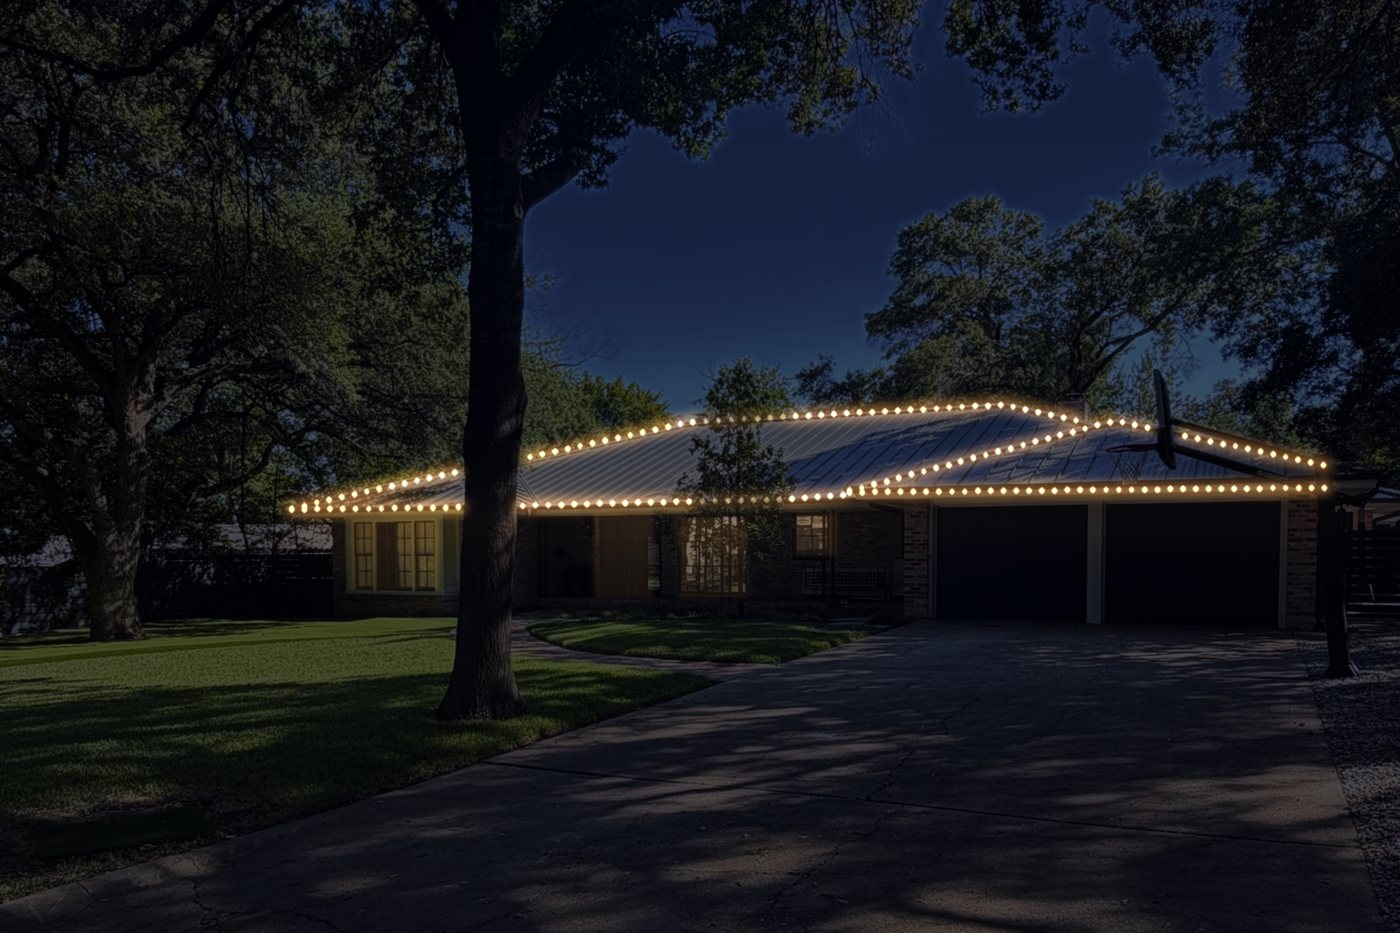
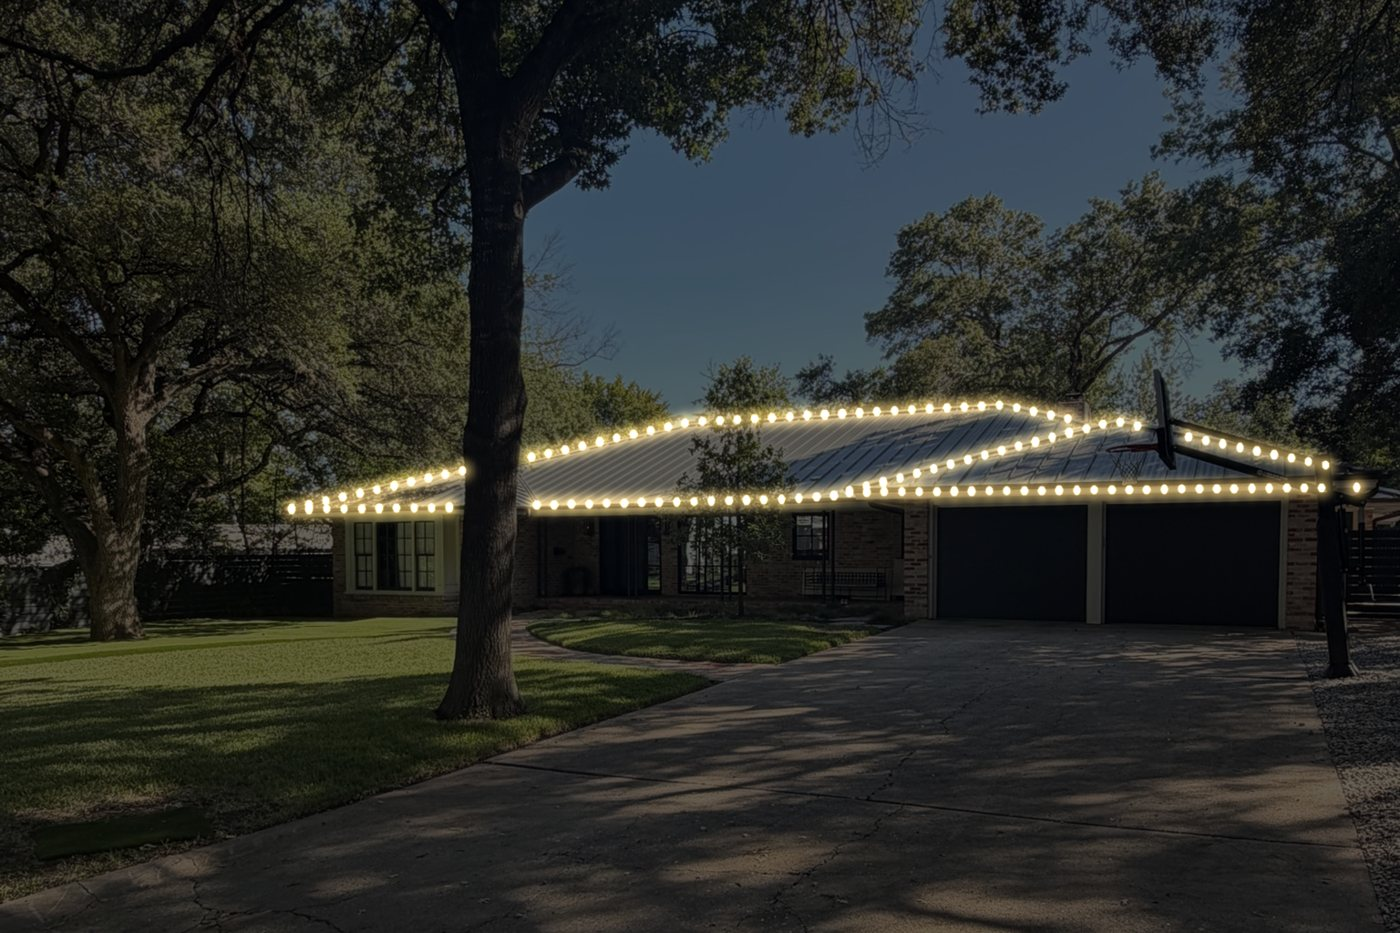
1403 Wooldridge: restyle renders to match house-drawn look; walkway + full driveway tier
Claude-Session: https://claude.ai/code/session_01NWYzJWcCd7XAGWYrkcqyAo

diff --git a/q/1403-wooldridge-dr.html b/q/1403-wooldridge-dr.html
@@ -115,15 +115,15 @@
       <span class="price">$900</span>
       <span class="desc">Warm-white C9s along every eave, hip, and ridge — house and garage — clean and visible from the street.</span><span class="see">See it on your home ↑</span>
     </div>
-    <div class="tier featured" data-img="img/1403-wooldridge-dr-2.jpg" data-name="Roofline + Trees" role="button" tabindex="0">
-      <span class="name">Roofline + Trees<span class="tag">Most popular</span></span>
+    <div class="tier featured" data-img="img/1403-wooldridge-dr-2.jpg" data-name="Roofline + Drive" role="button" tabindex="0">
+      <span class="name">Roofline + Drive<span class="tag">Most popular</span></span>
       <span class="price">$1,250</span>
-      <span class="desc">The roofline, plus your big front oak wrapped trunk-to-branch and the courtyard tree netted in light.</span><span class="see">See it on your home ↑</span>
+      <span class="desc">The roofline, plus your curved walkway and the full driveway outlined from the street to the garage.</span><span class="see">See it on your home ↑</span>
     </div>
     <div class="tier" data-img="img/1403-wooldridge-dr-3.jpg" data-name="The Full Glow" role="button" tabindex="0">
       <span class="name">The Full Glow</span>
       <span class="price">$1,600</span>
-      <span class="desc">Everything above, plus the front beds netted and your curved walkway outlined to the drive.</span><span class="see">See it on your home ↑</span>
+      <span class="desc">Everything above, plus your big front oak wrapped trunk-to-branch — the centerpiece of the yard.</span><span class="see">See it on your home ↑</span>
     </div>
   </section>
 
